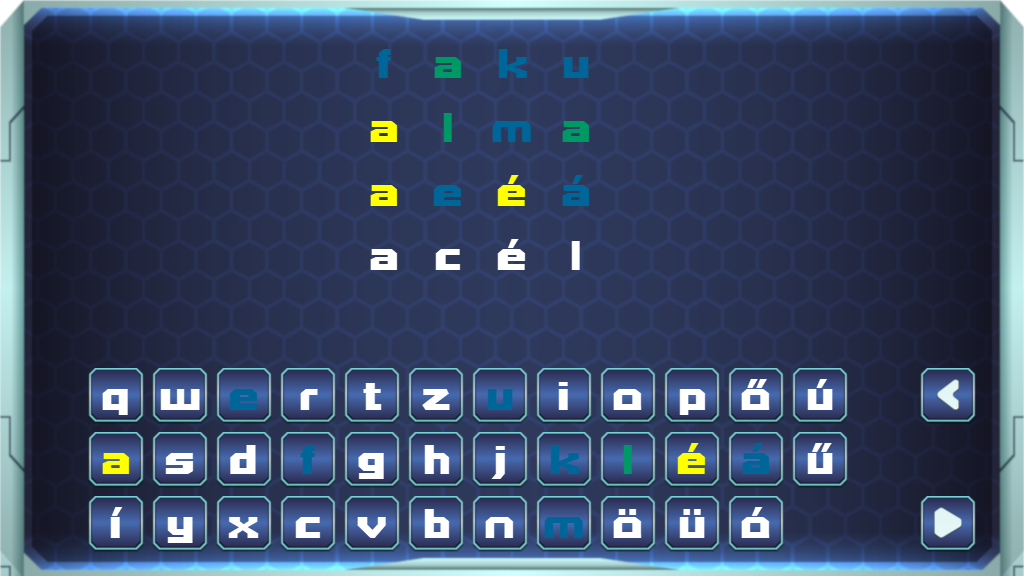
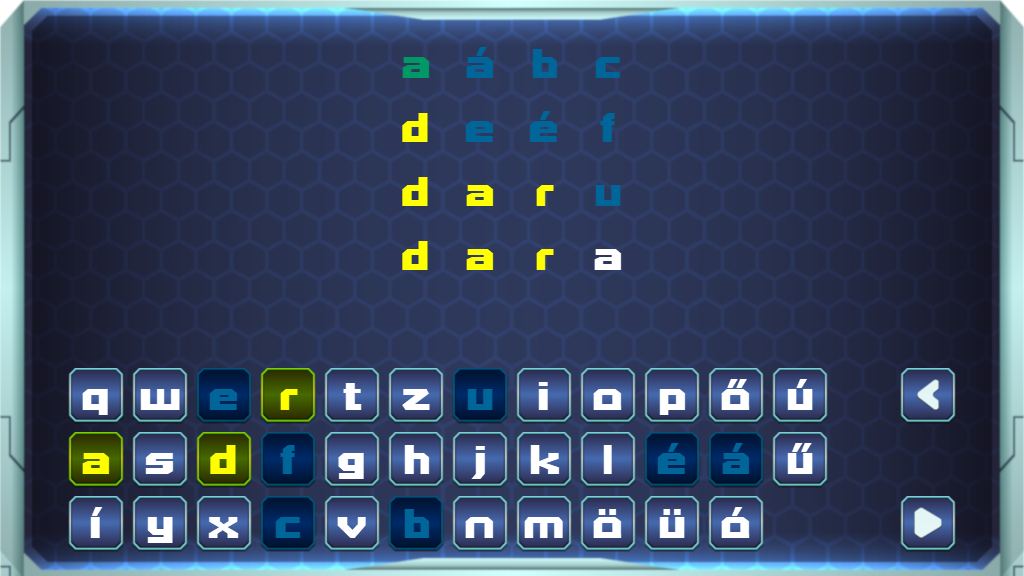
Add guessed chars to input field

diff --git a/src/gameScene.js b/src/gameScene.js
@@ -40,14 +40,20 @@ const GameScene = new Phaser.Class({
     let words = this.cache.json.get('words');
     let inputField = [];
     let numberOfGuesses = 0;
+    let guessedChars = [];
     let i;
     word = words[~~(Math.random() * words.length)];
     
     this.add.image(0, 0, 'atlas', 'bg').setOrigin(0);
     
+    let keyImages = [];
     let keyChars = [];
 
     let addChar = function (char) {
+      while (cursorPosition < word.length 
+        && guessedChars.includes(cursorPosition)) {
+          cursorPosition += 1;
+      }
       if (cursorPosition < word.length) {
         inputField[cursorPosition].text = char;
         cursorPosition += 1;
@@ -57,7 +63,7 @@ const GameScene = new Phaser.Class({
     keys.forEach(function (char, i) {
       let x = 96 + (i % 12) * 64;
       let y = 396 + ~~(i / 12) * 64;
-      scene.add.image(x, y, 'atlas', 'key_blue');
+      keyImages[char] = scene.add.image(x, y, 'atlas', 'key_blue');
       keyChars[char] = scene.add.bitmapText(x, y, 'font', char)
         .setOrigin(0.5)
         .setInteractive()
@@ -67,6 +73,10 @@ const GameScene = new Phaser.Class({
     });
 
     let backspace = function () {
+      while (cursorPosition > 0 
+        && guessedChars.includes(cursorPosition - 1)) {
+          cursorPosition -= 1;
+      }
       if (cursorPosition > 0) {
         cursorPosition -= 1;
         inputField[cursorPosition].text = '_';
@@ -78,7 +88,11 @@ const GameScene = new Phaser.Class({
       .on('pointerup', backspace);
 
     let enter = function () {
-      if (cursorPosition < word.length) {
+      while (guessedChars.includes(cursorPosition) 
+        && cursorPosition < word.length) {
+          cursorPosition += 1;
+      }
+      if (cursorPosition < word.length) {        
         return;
       }
       let guess = '';
@@ -89,20 +103,38 @@ const GameScene = new Phaser.Class({
           char = inputField[i].text;
           guess += char;
           inputField[i].setTint(0x006699);
+          keyImages[char].setTint(0x006699);
           keyChars[char].setTint(0x006699);
           if (char === word.charAt(i)) {
             inputField[i].setTint(0xffff00);
+            keyImages[char].setTint(0xffff00);
             keyChars[char].setTint(0xffff00);
+            inputField[i] = scene.add.bitmapText(
+              544 - (word.length * 32) + i * 64,
+              (numberOfGuesses + 1) * 64,
+              'font',
+              char
+            ).setOrigin(0.5);
+            inputField[i].setTint(0xffff00);
+            guessedChars.push(i);
           } else if (word.includes(char)) {
             inputField[i].setTint(0x009966);
+            keyImages[char].setTint(0x009966);
             keyChars[char].setTint(0x009966);
+            inputField[i] = scene.add.bitmapText(
+              544 - (word.length * 32) + i * 64,
+              (numberOfGuesses + 1) * 64,
+              'font',
+              '_'
+            ).setOrigin(0.5);
+          } else {
+            inputField[i] = scene.add.bitmapText(
+              544 - (word.length * 32) + i * 64,
+              (numberOfGuesses + 1) * 64,
+              'font',
+              '_'
+            ).setOrigin(0.5);
           }
-          inputField[i] = scene.add.bitmapText(
-            544 - (word.length * 32) + i * 64,
-            (numberOfGuesses + 1) * 64,
-            'font',
-            '_'
-          ).setOrigin(0.5);
         }
         if (guess === word) {
           scene.scene.start('WinScene');
